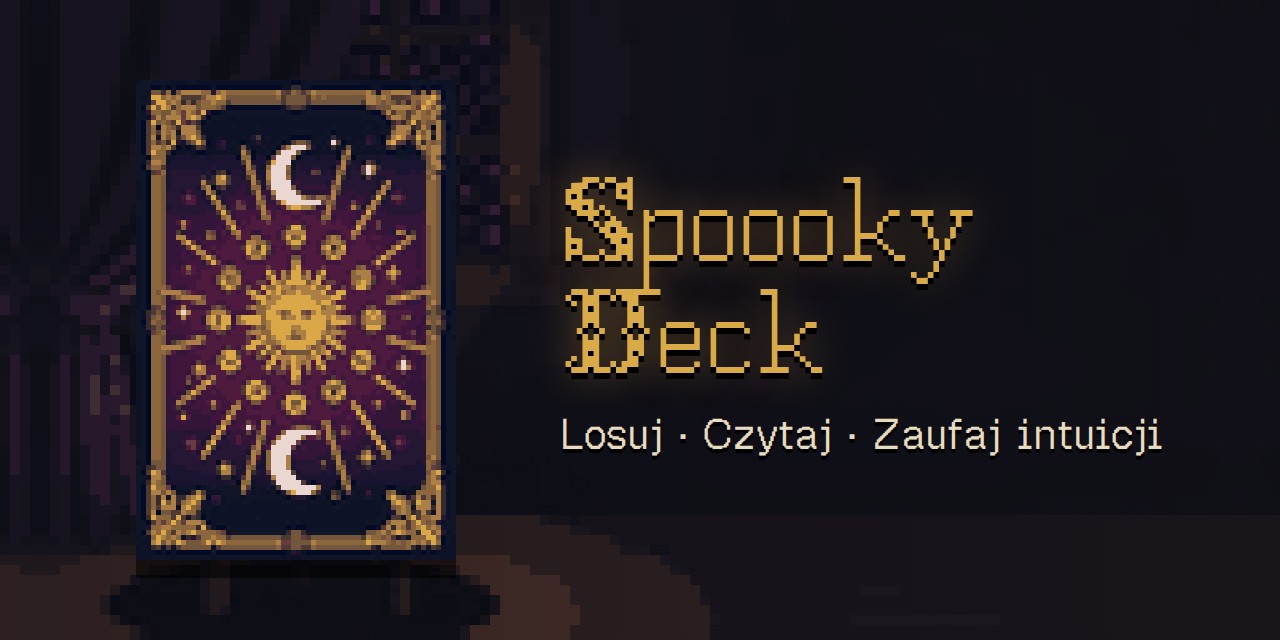
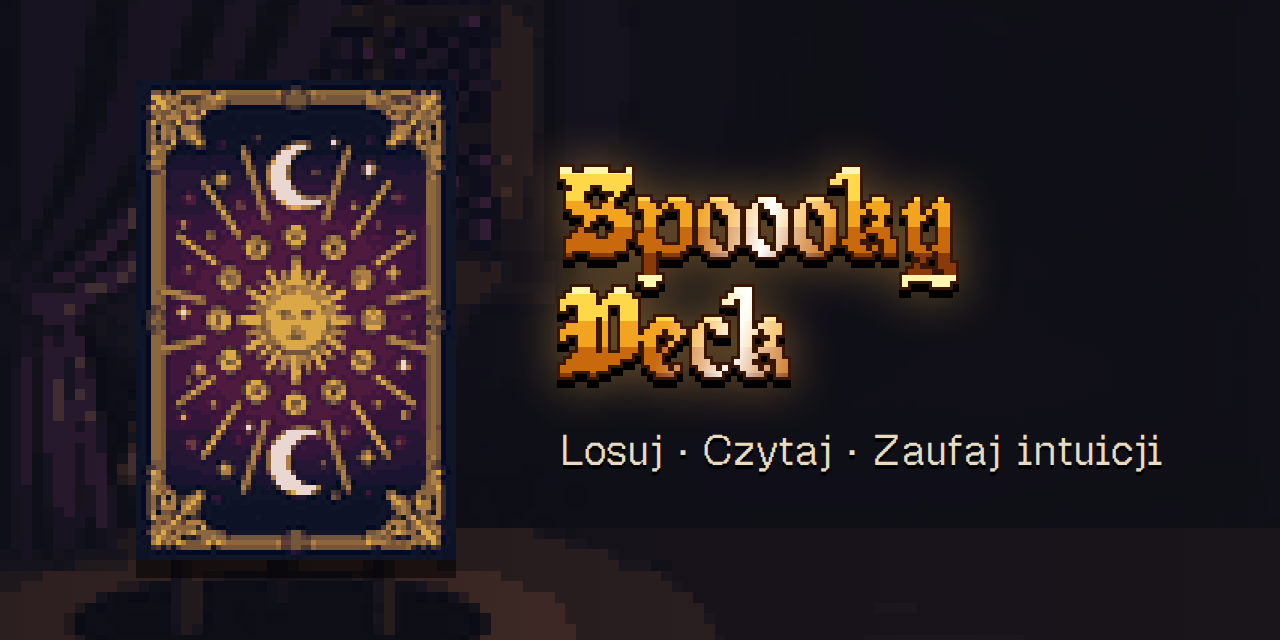
Gold metal title everywhere: share image, link preview (og), GitHub social preview; og version bumped

diff --git a/sw.js b/sw.js
@@ -1,5 +1,5 @@
 // Service worker Spoooky Deck. Plik sw.js jest generowany przez tools/build_sw.py (wersja = skrót zawartości plików).
-const VERSION = '1664a45e46';
+const VERSION = '8c46365311';
 const CACHE = 'spooooky-' + VERSION;
 const FILES = ["./", "css/cards.css", "css/fonts.css", "css/style.css", "css/theme.css", "data/cards.json", "data/grammar.en.json", "data/grammar.pl.json", "data/ui.en.json", "data/ui.pl.json", "data/zodiac.en.json", "data/zodiac.pl.json", "fonts/OldEnglishGothicPixel-OFL.txt", "fonts/OldEnglishGothicPixel.ttf", "fonts/OldeTome.ttf", "fonts/geistpixel-latin-ext.woff2", "fonts/geistpixel-latin.woff2", "fonts/jacquard12-latin-ext.woff2", "fonts/jacquard12-latin.woff2", "img/cards/ar00.png", "img/cards/ar01.png", "img/cards/ar02.png", "img/cards/ar03.png", "img/cards/ar04.png", "img/cards/ar05.png", "img/cards/ar06.png", "img/cards/ar07.png", "img/cards/ar08.png", "img/cards/ar09.png", "img/cards/ar10.png", "img/cards/ar11.png", "img/cards/ar12.png", "img/cards/ar13.png", "img/cards/ar14.png", "img/cards/ar15.png", "img/cards/ar16.png", "img/cards/ar17.png", "img/cards/ar18.png", "img/cards/ar19.png", "img/cards/ar20.png", "img/cards/ar21.png", "img/cards/cu01.png", "img/cards/cu02.png", "img/cards/cu03.png", "img/cards/cu04.png", "img/cards/cu05.png", "img/cards/cu06.png", "img/cards/cu07.png", "img/cards/cu08.png", "img/cards/cu09.png", "img/cards/cu10.png", "img/cards/cu11.png", "img/cards/cu12.png", "img/cards/cu13.png", "img/cards/cu14.png", "img/cards/pe01.png", "img/cards/pe02.png", "img/cards/pe03.png", "img/cards/pe04.png", "img/cards/pe05.png", "img/cards/pe06.png", "img/cards/pe07.png", "img/cards/pe08.png", "img/cards/pe09.png", "img/cards/pe10.png", "img/cards/pe11.png", "img/cards/pe12.png", "img/cards/pe13.png", "img/cards/pe14.png", "img/cards/sw01.png", "img/cards/sw02.png", "img/cards/sw03.png", "img/cards/sw04.png", "img/cards/sw05.png", "img/cards/sw06.png", "img/cards/sw07.png", "img/cards/sw08.png", "img/cards/sw09.png", "img/cards/sw10.png", "img/cards/sw11.png", "img/cards/sw12.png", "img/cards/sw13.png", "img/cards/sw14.png", "img/cards/wa01.png", "img/cards/wa02.png", "img/cards/wa03.png", "img/cards/wa04.png", "img/cards/wa05.png", "img/cards/wa06.png", "img/cards/wa07.png", "img/cards/wa08.png", "img/cards/wa09.png", "img/cards/wa10.png", "img/cards/wa11.png", "img/cards/wa12.png", "img/cards/wa13.png", "img/cards/wa14.png", "img/emoji/U+1F30D.png", "img/emoji/U+1F319.png", "img/emoji/U+1F377.png", "img/emoji/U+1F3C6.png", "img/emoji/U+1F4A7.png", "img/emoji/U+1F4A8.png", "img/emoji/U+1F507.png", "img/emoji/U+1F50A.png", "img/emoji/U+1F525.png", "img/emoji/U+1F53A.png", "img/emoji/U+1F53B.png", "img/emoji/U+1FA99.png", "img/emoji/U+2648.png", "img/emoji/U+2649.png", "img/emoji/U+264A.png", "img/emoji/U+264B.png", "img/emoji/U+264C.png", "img/emoji/U+264D.png", "img/emoji/U+264E.png", "img/emoji/U+264F.png", "img/emoji/U+2650.png", "img/emoji/U+2651.png", "img/emoji/U+2652.png", "img/emoji/U+2653.png", "img/emoji/U+2694.png", "img/emoji/U+2728.png", "img/icons/apple-touch-icon.png", "img/icons/favicon-16.png", "img/icons/favicon-32.png", "img/icons/icon-192.png", "img/icons/icon-512.png", "img/icons/icon-maskable-512.png", "img/og-bg.png", "img/og.png", "img/ui/back.png", "img/ui/bg-card.png", "img/ui/bg-intro.png", "img/ui/bg-pick.png", "img/ui/bg-read.png", "img/ui/btn-alt.png", "img/ui/btn.png", "img/ui/candle.png", "img/ui/cardframe.png", "img/ui/cursor.png", "img/ui/emblem.png", "img/ui/frame.png", "img/ui/ic-candle.png", "img/ui/ic-industry.png", "img/ui/ic-stage.png", "img/ui/ic-stars.png", "img/ui/ic-tower.png", "img/ui/picture-frame.png", "img/ui/shine.png", "index.html", "js/app.js", "js/audio.js", "js/deck.js", "js/fx.js", "js/oracle.js", "js/share.js", "js/vendor/seedrandom.min.js", "js/vendor/tracery.js", "js/vendor/zzfx.js", "manifest.webmanifest"];
 

diff --git a/js/share.js b/js/share.js
@@ -41,6 +41,18 @@ async function drawCard(card, lang) {
   return o;
 }
 
+// Tytuł jako złoty metal, jak na splashu: twarde pasy światła, ciemny obrys, cień i delikatna poświata (statycznie, bez animacji).
+function drawGoldTitle(g, text, x, baseline, px) {
+  g.save(); g.font = `${px}px "Old English Gothic Pixel"`; g.textAlign = 'center'; g.textBaseline = 'alphabetic';
+  const m = g.measureText(text), top = baseline - m.fontBoundingBoxAscent, h = m.fontBoundingBoxAscent + m.fontBoundingBoxDescent, d = Math.max(2, Math.round(px / 40));
+  g.shadowColor = '#ffb34766'; g.shadowBlur = px / 5; g.fillStyle = '#000'; g.fillText(text, x, baseline + d * 2.5); g.shadowBlur = 0;   // cień pod spodem i poświata
+  g.fillStyle = '#3a1604';
+  for (const [dx, dy] of [[1, 0], [-1, 0], [0, 1], [0, -1], [1, 1], [-1, 1], [1, -1], [-1, -1]]) g.fillText(text, x + dx * d, baseline + dy * d);   // obrys
+  const gr = g.createLinearGradient(0, top, 0, top + h);
+  [['#fff6b0', 0], ['#fff6b0', .16], ['#ffd84a', .16], ['#ffd84a', .38], ['#f2a31f', .38], ['#f2a31f', .6], ['#c9690e', .6], ['#c9690e', .82], ['#8a3a08', .82], ['#8a3a08', 1]].forEach(([c, o]) => gr.addColorStop(o, c));
+  g.fillStyle = gr; g.fillText(text, x, baseline); g.restore();
+}
+
 export async function makeShareImage({ card, reversed, quote, company, lang, ui }) {
   const glyphs = 'ąćęłńóśźżĄĆĘŁŃÓŚŹŻ';
   await Promise.all([document.fonts.load('52px "Olde Tome"', glyphs), document.fonts.load('120px "Old English Gothic Pixel"'), document.fonts.load('40px "Geist Pixel"', glyphs)]);
@@ -57,10 +69,10 @@ export async function makeShareImage({ card, reversed, quote, company, lang, ui 
   const q = lang === 'pl' ? `„${quote}”` : `“${quote}”`;
   g.font = '56px "Olde Tome"'; const qLines = wrap(g, q, 900).slice(0, 4);
   const co = (company || '').slice(0, 40);
-  const TITLE = 120, GAP1 = 56, CARD = cardCanvas.height, GAP2 = 70, POS = 44, GAP3 = 46, QH = qLines.length * 72, GAP4 = 64, FOOT = co ? 38 + 20 + 38 : 38;
+  const TITLE = 120, GAP1 = 74, CARD = cardCanvas.height, GAP2 = 70, POS = 44, GAP3 = 46, QH = qLines.length * 72, GAP4 = 64, FOOT = co ? 38 + 20 + 38 : 38;
   const total = TITLE + GAP1 + CARD + GAP2 + POS + GAP3 + QH + GAP4 + FOOT;
   let y = Math.round((1920 - total) / 2);
-  g.fillStyle = GOLD; g.font = `${TITLE}px "Old English Gothic Pixel"`; g.shadowColor = '#000'; g.shadowOffsetY = 6; g.fillText('Spoooky Deck', 540, y + TITLE - 18); g.shadowOffsetY = 0;
+  drawGoldTitle(g, 'Spoooky Deck', 540, y + TITLE - 18, TITLE);
   y += TITLE + GAP1;
   // karta (po obrocie o 180 stopni, jeśli odwrócona) z pikselową czerwoną poświatą dla odwróconej
   const cx = (1080 - cardCanvas.width) / 2, cy = y;

diff --git a/index.html b/index.html
@@ -15,7 +15,7 @@
 <meta property="og:title" content="Spoooky Deck">
 <meta property="og:description" content="Losuj · Czytaj · Zaufaj intuicji. Wyrocznia tarota dla firm.">
 <meta property="og:url" content="https://whosz.pl/tarot/">
-<meta property="og:image" content="https://whosz.pl/tarot/img/og.png?v=5">
+<meta property="og:image" content="https://whosz.pl/tarot/img/og.png?v=6">
 <meta property="og:image:type" content="image/png">
 <meta property="og:image:alt" content="Rewers karty tarota ze złotym słońcem i księżycami oraz napis Spoooky Deck: Losuj, Czytaj, Zaufaj intuicji">
 <meta property="og:locale" content="pl_PL">
@@ -24,7 +24,7 @@
 <meta name="twitter:card" content="summary_large_image">
 <meta name="twitter:title" content="Spoooky Deck">
 <meta name="twitter:description" content="Losuj · Czytaj · Zaufaj intuicji. Wyrocznia tarota dla firm.">
-<meta name="twitter:image" content="https://whosz.pl/tarot/img/og.png?v=5">
+<meta name="twitter:image" content="https://whosz.pl/tarot/img/og.png?v=6">
 <meta name="twitter:image:alt" content="Rewers karty tarota ze złotym słońcem i księżycami oraz napis Spoooky Deck">
 <link rel="apple-touch-icon" href="img/icons/apple-touch-icon.png">
 <meta name="apple-mobile-web-app-capable" content="yes">
@@ -34,10 +34,10 @@
 <link rel="preload" href="fonts/jacquard12-latin-ext.woff2" as="font" type="font/woff2" crossorigin>
 <link rel="preload" href="fonts/geistpixel-latin.woff2" as="font" type="font/woff2" crossorigin>
 <link rel="preload" href="fonts/geistpixel-latin-ext.woff2" as="font" type="font/woff2" crossorigin>
-<link rel="stylesheet" href="css/fonts.css?v=188">
-<link rel="stylesheet" href="css/style.css?v=188">
-<link rel="stylesheet" href="css/cards.css?v=188">
-<link rel="stylesheet" href="css/theme.css?v=188">
+<link rel="stylesheet" href="css/fonts.css?v=190">
+<link rel="stylesheet" href="css/style.css?v=190">
+<link rel="stylesheet" href="css/cards.css?v=190">
+<link rel="stylesheet" href="css/theme.css?v=190">
 </head>
 <body>
 <div id="phone">
@@ -130,6 +130,6 @@
 <script src="js/vendor/seedrandom.min.js"></script>
 <script src="js/vendor/tracery.js"></script>
 <script src="js/vendor/zzfx.js"></script>
-<script type="module" src="js/app.js?v=188"></script>
+<script type="module" src="js/app.js?v=190"></script>
 </body>
 </html>

diff --git a/js/app.js b/js/app.js
@@ -1,8 +1,8 @@
-import { draw, loadHistory, saveHistory, newSeed } from './deck.js?v=188';
-import { compose, INDUSTRIES, STAGES } from './oracle.js?v=188';
-import { startBg, revealFx, tiltCard, enableGyro, startAmbient, stopAmbient, setTheme, resetTheme, sparkleCard, flickerTitle, cursorSparks } from './fx.js?v=188';
-import { shareImage } from './share.js?v=188';
-import { start as startAudio, sfx, toggleMute, isMuted, audioError } from './audio.js?v=188';
+import { draw, loadHistory, saveHistory, newSeed } from './deck.js?v=190';
+import { compose, INDUSTRIES, STAGES } from './oracle.js?v=190';
+import { startBg, revealFx, tiltCard, enableGyro, startAmbient, stopAmbient, setTheme, resetTheme, sparkleCard, flickerTitle, cursorSparks } from './fx.js?v=190';
+import { shareImage } from './share.js?v=190';
+import { start as startAudio, sfx, toggleMute, isMuted, audioError } from './audio.js?v=190';
 
 const $ = s => document.querySelector(s);
 const OFFER = 'https://whosz.pl/offer/?utm_source=tarot&utm_medium=app&utm_campaign=wrozba';
